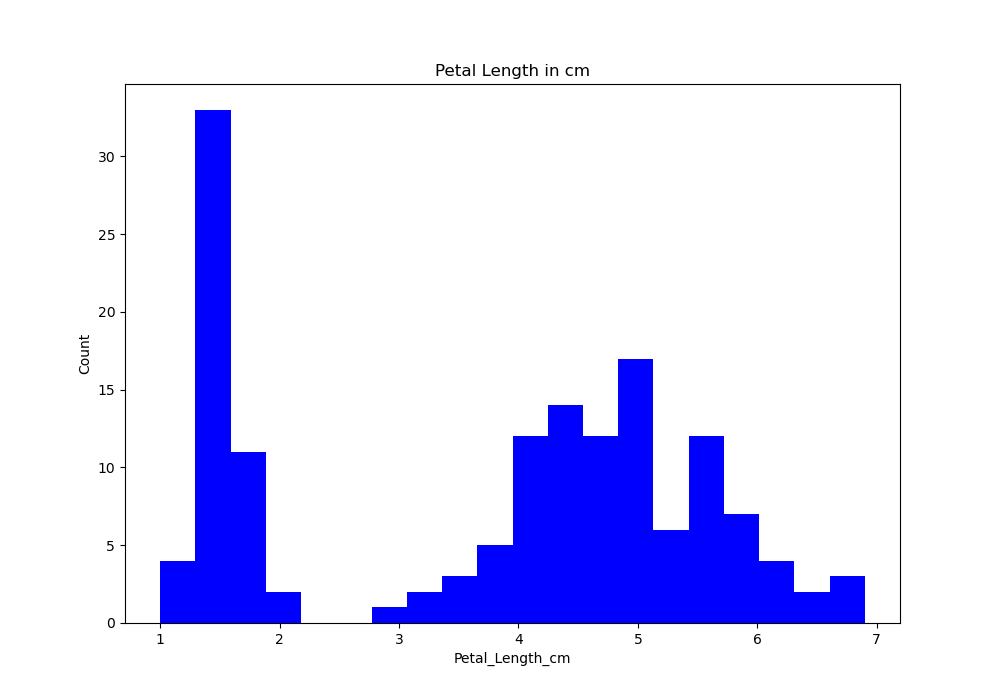
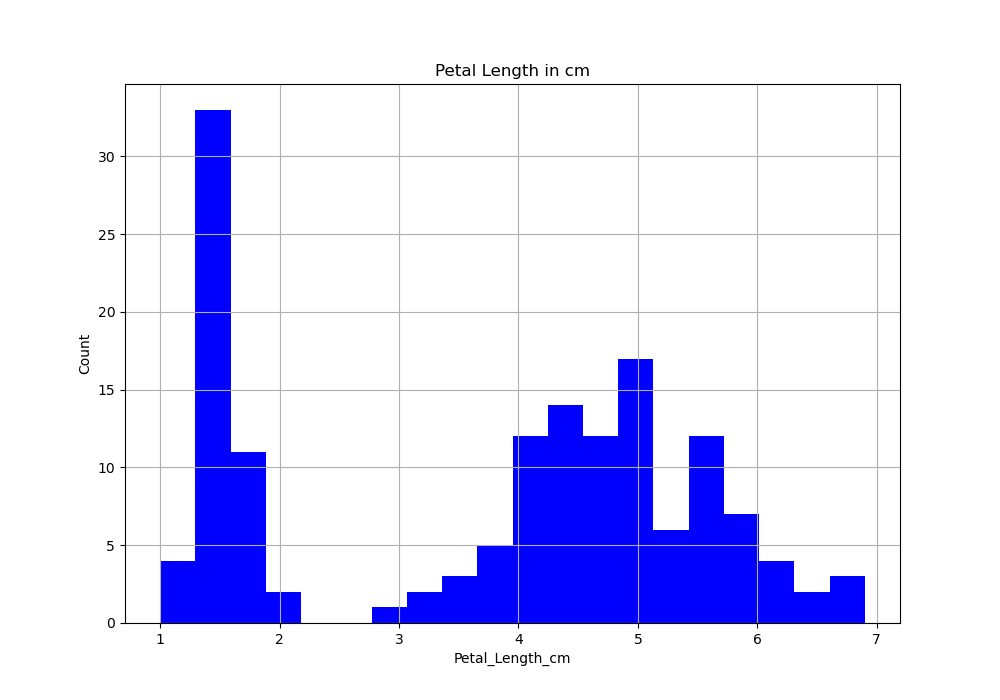
Project Work

diff --git a/analysis.py b/analysis.py
@@ -1,68 +1,65 @@
-#from statistics import median
-from lib2to3.pgen2.pgen import DFAState
 from tkinter import N, W
-from turtle import title
-import pandas as pd
-import seaborn as sns
-import matplotlib.pyplot as plt
-import numpy as np
-import csv
-dataRead = pd.read_csv(r"C:\Users/Catriona Murray/Documents/pands-project/iris_dataset.csv")
-#print(data.head())
-#print(data.sample(10))
-f = open(r"C:\Users\Catriona Murray\Documents\pands-project\iris_summary.csv",W , newline='')
-writer = csv.writer(f)
-df = pd.DataFrame(dataRead)
-df.columns = ['sepal_length', 'sepal_width', 'petal_length', 'petal_width', 'Species' ]
-#print(data.head())
-totalSepL=df['sepal_length'].sum()
-medianSepL=df['sepal_length'].median()
-meanSepL=round(df['sepal_length'].mean(),2)
-stdSepL=round(df['sepal_length'].std(),2)
-maxSepL=df['sepal_length'].max()
-minSepL=df['sepal_length'].min()
-totalSepW=df['sepal_width'].sum()
-medianSepW=df['sepal_width'].median()
-meanSepW=round(df['sepal_width'].mean(),2)
-stdSepW=round(df['sepal_width'].std(),2)
-maxSepW=df['sepal_width'].max()
-minSepW=df['sepal_width'].min()
-totalPetL=df['petal_length'].sum()
-medianPetL=df['petal_length'].median()
-meanPetL=round(df['petal_length'].mean(),2)
-stdPetL=round(df['petal_length'].std(),2)
-maxPetL=df['petal_length'].max()
-minPetL=df['petal_length'].min()
-totalPetW=df['petal_width'].sum()
-medianPetW=df['petal_width'].median()
-meanPetW=round(df['petal_width'].mean(),2)
-stdPetW=round(df['petal_width'].std(),2)
-maxPetW=df['petal_width'].max()
-minPetW=df['petal_width'].min()
+from turtle import title  # Import libraries used later to open iris dataset file
+import pandas as pd #Import library to allow read in data and manipulation of data
+import seaborn as sns  #Used for analysis of data and graphical representations
+import matplotlib.pyplot as plt #Used for graphs
+import numpy as np #Used for calculations of data
+import csv #file type
+
+dataRead = pd.read_csv(r"C:\Users/Catriona Murray/Documents/pands-project/iris_dataset.csv") # Read in csv file using pandas library functions
+f = open(r"C:\Users\Catriona Murray\Documents\pands-project\iris_summary.csv",W , newline='') #open the file so we can write to the file
+writer = csv.writer(f) # function write to the file that is opened iris_summary.csv
+df = pd.DataFrame(dataRead) # Read in all data to variable df
+df.columns = ['sepal_length', 'sepal_width', 'petal_length', 'petal_width', 'Species' ] # Label the coloumns of the csv read in so we can run calculations on data using pandas library
+totalSepL=df['sepal_length'].sum() # calculate and store the sum of sepal length using pandas library functions
+medianSepL=df['sepal_length'].median() #calculate and store the median of sepal length using pandas library functions
+meanSepL=round(df['sepal_length'].mean(),2) #calculate and store the mean of sepal length round to two decimal places using pandas library functions
+stdSepL=round(df['sepal_length'].std(),2) #calculate and store the standard deviation of sepal length round to two decimal places using pandas library functions
+maxSepL=df['sepal_length'].max() #calculate and store the Max sepal length round to two decimal places using pandas library functions
+minSepL=df['sepal_length'].min() # calculate and store the Min sepal length round to two decimal places using pandas library functions
+totalSepW=df['sepal_width'].sum() # calculate and store the sum of sepal width using pandas library functions
+medianSepW=df['sepal_width'].median() #calculate and store the median of sepal width using pandas library functions
+meanSepW=round(df['sepal_width'].mean(),2) #calculate and store the mean of sepal width round to two decimal places using pandas library functions
+stdSepW=round(df['sepal_width'].std(),2) #calculate and store the standard deviation of sepal width round to two decimal places using pandas library function
+maxSepW=df['sepal_width'].max() #calculate and store the Max sepal width round to two decimal places using pandas library functions
+minSepW=df['sepal_width'].min() #calculate and store the Min sepal width round to two decimal places using pandas library functions
+totalPetL=df['petal_length'].sum() # calculate and store the sum of petal length using pandas library functions
+medianPetL=df['petal_length'].median() #calculate and store the median of petal length using pandas library functions
+meanPetL=round(df['petal_length'].mean(),2) #calculate and store the mean of petal length round to two decimal places using pandas library functions
+stdPetL=round(df['petal_length'].std(),2)#calculate and store the standard deviation of petal length round to two decimal places using pandas library functions
+maxPetL=df['petal_length'].max() #calculate and store the Max petal length round to two decimal places using pandas library functions
+minPetL=df['petal_length'].min() # calculate and store the min petal length round to two decimal places using pandas library functions
+totalPetW=df['petal_width'].sum() # calculate and store the sum of petal width using pandas library functions
+medianPetW=df['petal_width'].median()  #calculate and store the median of petal width using pandas library functions
+meanPetW=round(df['petal_width'].mean(),2) #calculate and store the mean of petal width round to two decimal places using pandas library functions
+stdPetW=round(df['petal_width'].std(),2) #calculate and store the standard deviation of petal width round to two decimal places using pandas library functions
+maxPetW=df['petal_width'].max() #calculate and store the Max petal width round to two decimal places using pandas library functions
+minPetW=df['petal_width'].min() #calculate and store the Min Petal width round to two decimal places using pandas library functions
 #des=df.describe()
-q1SepalLgth = np.quantile(df.sepal_length,0.25)
-q3SepalLgth = np.quantile(df.sepal_length,0.75)
-iqrSepalLgth = round((q3SepalLgth - q1SepalLgth),2)
-q1SepalWdth = np.quantile(df.sepal_width,0.25)
-q3SepalWdth = np.quantile(df.sepal_width,0.75)
-iqrSepalWdth = round((q3SepalWdth - q1SepalWdth),2)
-q1PetalLgth = np.quantile(df.petal_length,0.25)
-q3PetalLgth = np.quantile(df.petal_length,0.75)
-iqrPetalLgth = round((q3PetalLgth - q1PetalLgth),2)
-q1PetalWdth = np.quantile(df.petal_width,0.25)
-q3PetalWdth = np.quantile(df.petal_width,0.75)
-iqrPetalWdth = round((q3PetalWdth - q1PetalWdth),2)
+q1SepalLgth = np.quantile(df.sepal_length,0.25) # Using numpy library functions to calculate the 1st quartile which is 1/4 or 25% of the range of values of Sepal Length
+q3SepalLgth = np.quantile(df.sepal_length,0.75)  # Using numpy library functions to calculate the 1st quartile which is 3/4 or 75% of the range of values of Sepal Length
+iqrSepalLgth = round((q3SepalLgth - q1SepalLgth),2) # 50% of sample range for sepal length- 75 -25%% = 50% 
+q1SepalWdth = np.quantile(df.sepal_width,0.25)# Using numpy library functions to calculate the 1st quartile which is 1/4 or 25% of the range of values of Sepal width
+q3SepalWdth = np.quantile(df.sepal_width,0.75) # Using numpy library functions to calculate the 1st quartile which is 3/4 or 75% of the range of values of Sepal Width
+iqrSepalWdth = round((q3SepalWdth - q1SepalWdth),2)  # 50% of sample range  for sepal width- 75 -25%% = 50%
+q1PetalLgth = np.quantile(df.petal_length,0.25)  # Using numpy library functions to calculate the 1st quartile which is 1/4 or 25% of the range of values of Petal Length
+q3PetalLgth = np.quantile(df.petal_length,0.75) # Using numpy library functions to calculate the 1st quartile which is 3/4 or 75% of the range of values of Petal Length
+iqrPetalLgth = round((q3PetalLgth - q1PetalLgth),2) # 50% of sample range  for petal length- 75 -25%% = 50%
+q1PetalWdth = np.quantile(df.petal_width,0.25) # Using numpy library functions to calculate the 1st quartile which is 1/4 or 25% of the range of values of Petal width
+q3PetalWdth = np.quantile(df.petal_width,0.75) # Using numpy library functions to calculate the 1st quartile which is 3/4 or 75% of the range of values of Petal width
+iqrPetalWdth = round((q3PetalWdth - q1PetalWdth),2) # 50% of sample range  for Petal width- 75 -25%% = 50%
 #writer.writerow(["Sepal Length"])
-writer.writerow(["","Total","Mean","Standard Deviation","Max","Min","First Quartile","Median","Third Quartile","IQR"])
-writer.writerow(["Sepal Length",totalSepL,meanSepL,stdSepL,maxSepL,minSepL,q1SepalLgth,medianSepL,q3SepalLgth,iqrSepalLgth])
-writer.writerow(["Sepal Width",totalSepW,meanSepW,stdSepW,maxSepW,minSepW,q1SepalWdth,medianSepW,q3SepalWdth,iqrSepalWdth])
-writer.writerow(["Petal Length",totalPetL,meanPetL,stdPetL,maxPetL,minPetL,q1PetalLgth,medianPetL,q3PetalLgth,iqrPetalLgth])
-writer.writerow(["Petal Width",totalPetW,meanPetW,stdPetW,maxPetW,minPetW,q1PetalWdth,medianPetW ,q3PetalWdth,iqrPetalWdth])
+writer.writerow(["","Total","Mean","Standard Deviation","Max","Min","First Quartile","Median","Third Quartile","IQR"]) #Write headings on the first row with 10 columns andthe 1st column is empty
+writer.writerow(["Sepal Length",totalSepL,meanSepL,stdSepL,maxSepL,minSepL,q1SepalLgth,medianSepL,q3SepalLgth,iqrSepalLgth]) # write to iris_summary.csv with calculations of sepal Length
+writer.writerow(["Sepal Width",totalSepW,meanSepW,stdSepW,maxSepW,minSepW,q1SepalWdth,medianSepW,q3SepalWdth,iqrSepalWdth]) # write to iris_summary.csv with calculations of sepal width
+writer.writerow(["Petal Length",totalPetL,meanPetL,stdPetL,maxPetL,minPetL,q1PetalLgth,medianPetL,q3PetalLgth,iqrPetalLgth])# write to iris_summary.csv with calculations of petal length
+writer.writerow(["Petal Width",totalPetW,meanPetW,stdPetW,maxPetW,minPetW,q1PetalWdth,medianPetW ,q3PetalWdth,iqrPetalWdth]) # write to iris_summary.csv with calculations of petal width
+# File that is beint written to iris_summary.csv must not be open at the same time as running the script as it will fail with permission errors
 
 
-print ("\033[2;37;40m Sepal Length: \033[0;37;40m")
-print ("Sepal Length Standard Deviation: "+str(stdSepL))
-print ("Total Sepal Length: "+str(totalSepL))
+print ("\033[2;37;40m Sepal Length: \033[0;37;40m") # Output heading so that its underlined
+print ("Sepal Length Standard Deviation: "+str(stdSepL)) # Print out Standard Deviation and all other calculations for each characteristics
+print ("Total Sepal Length: "+str(totalSepL))  
 print ("Mean Sepal Length: "+str(meanSepL))
 print ("Sepal Length Standard Deviation: "+str(stdSepL))
 print ("Max Sepal Length: "+str(maxSepL))
@@ -107,32 +104,16 @@ print ("First Quartile Petal Width: "+str(q1PetalWdth))
 print ("Median Petal Width: "+str(medianPetW))
 print ("Third Quartile Petal Length: "+str(q3PetalLgth))
 print ("IQR Petal Width: "+str(iqrPetalWdth)+"\n")
-#shape = df.shape
-#info = df.info()
-#df.isnull().sum()
 
-#data= df.drop_duplicates(subset ="Species",) 
-#data
-
-#print(data)
-#print(shape)
-#print(info)
-#print(des)
-#spec=df['Species'].nunique()
-#cnt=df.count()
-#specCount=df['Species'].value_counts()
-#print(specCount)
-#print(spec)
-
-
-plt.figure(figsize = (10, 7))
-x = df["sepal_length"]
-plt.hist(x, bins = 20, color = "green")
-plt.title("Sepal Length in cm")
-plt.xlabel("Sepal_Length_cm")
-plt.ylabel("Count")
-plt.savefig('histSepalLength.png')
-plt.show()
+plt.figure(figsize = (10, 7)) # Using mathplot lib library functions setting the size of figure  
+x = df["sepal_length"] # Setting the x axis to the sepal length read in from data sets and using the columns that were labelled previously which are used to extract that specific variable data
+plt.hist(x, bins = 20, color = "green") # setting the figure to be a histogram which is based on the x varialble , bins is particular histogran type with intervals, Color assigns the color for that histogram
+plt.title("Sepal Length in cm")  # set the title of the graph
+plt.xlabel("Sepal_Length_cm") # set the x axis label
+plt.ylabel("Count") # set the axis label
+plt.savefig('histSepalLength.png') # Save the graph generated as a png file  in current directory
+plt.grid(True) # put in grid
+plt.show() # Output the graphs to the screen
 
 plt.figure(figsize = (10, 7))
 x = df["sepal_width"]
@@ -141,6 +122,7 @@ plt.title("Sepal Width in cm")
 plt.xlabel("Sepal_Width_cm")
 plt.ylabel("Count")
 plt.savefig('histSepalWidth.png')
+plt.grid(True)
 plt.show()
 
 
@@ -150,6 +132,7 @@ plt.hist(x, bins = 20, color = "blue")
 plt.title("Petal Length in cm")
 plt.xlabel("Petal_Length_cm")
 plt.ylabel("Count")
+plt.grid(True)
 plt.savefig('histPetalLength.png')
 plt.show()
 
@@ -159,13 +142,16 @@ plt.hist(x, bins = 20, color = "orange")
 plt.title("Petal Width in cm")
 plt.xlabel("Petal_Width_cm")
 plt.ylabel("Count")
+plt.grid(True)
 plt.savefig('histPetalWidth.png')
 plt.show()
 
-sns.countplot(x='Species', data=df,).set(title='Species')
-plt.show()
+sns.countplot(x='Species', data=df,).set(title='Species') # Creates a histogram that shows the count of species
+plt.grid(True) # Add grid to chart
+plt.show() #Show the chart
 
-#scatterplots
+#scatterplots   
+
 sns.scatterplot(x='sepal_length', y='sepal_width',
                 hue='Species', data=df,).set(title='Sepal Length vs Sepal Width')
 # Placing Legend outside the Figure
@@ -175,7 +161,7 @@ fig.set_size_inches(10, 8)
 plt.grid(True)
 plt.show()
 
-sns.scatterplot(x='petal_length', y='petal_width', hue='Species', data=df, ).set(title='Petal Length vs Petal Width')
+sns.scatterplot(x='petal_length', y='petal_width', hue='Species', data=df,).set(title='Petal Length vs Petal Width')
 # Placing Legend outside the Figure
 plt.legend(bbox_to_anchor=(1, 1), loc=4)
 fig = plt.gcf()
@@ -184,13 +170,21 @@ plt.grid(True)
 plt.show()
 
 new_data = df[["sepal_length", "sepal_width", "petal_length", "petal_width"]]
-#print(new_data.head())
 plt.figure(figsize = (10, 7))
 new_data.boxplot()
-plt.grid(True)
+plt.show()
+
+sns.lineplot(data=df, x='petal_length', y='petal_width', hue='Species', dashes=False, marker='o').set(title ="Petal Length vs Petal Width");
+plt.show()
+
+sns.lineplot(data=df, x='sepal_length', y='sepal_width', hue='Species', dashes=False, marker='o').set(title ="Sepal Length vs Sepal Width");
 plt.show()
 
 sns.violinplot(x="Species", y="petal_length", data=df, size=8)
+plt.grid(True)
+plt.show()
+
+sns.pairplot(dataRead, hue="Species", palette="husl", markers=["o", "s", "D"])
 plt.show()
 f.close()
 
